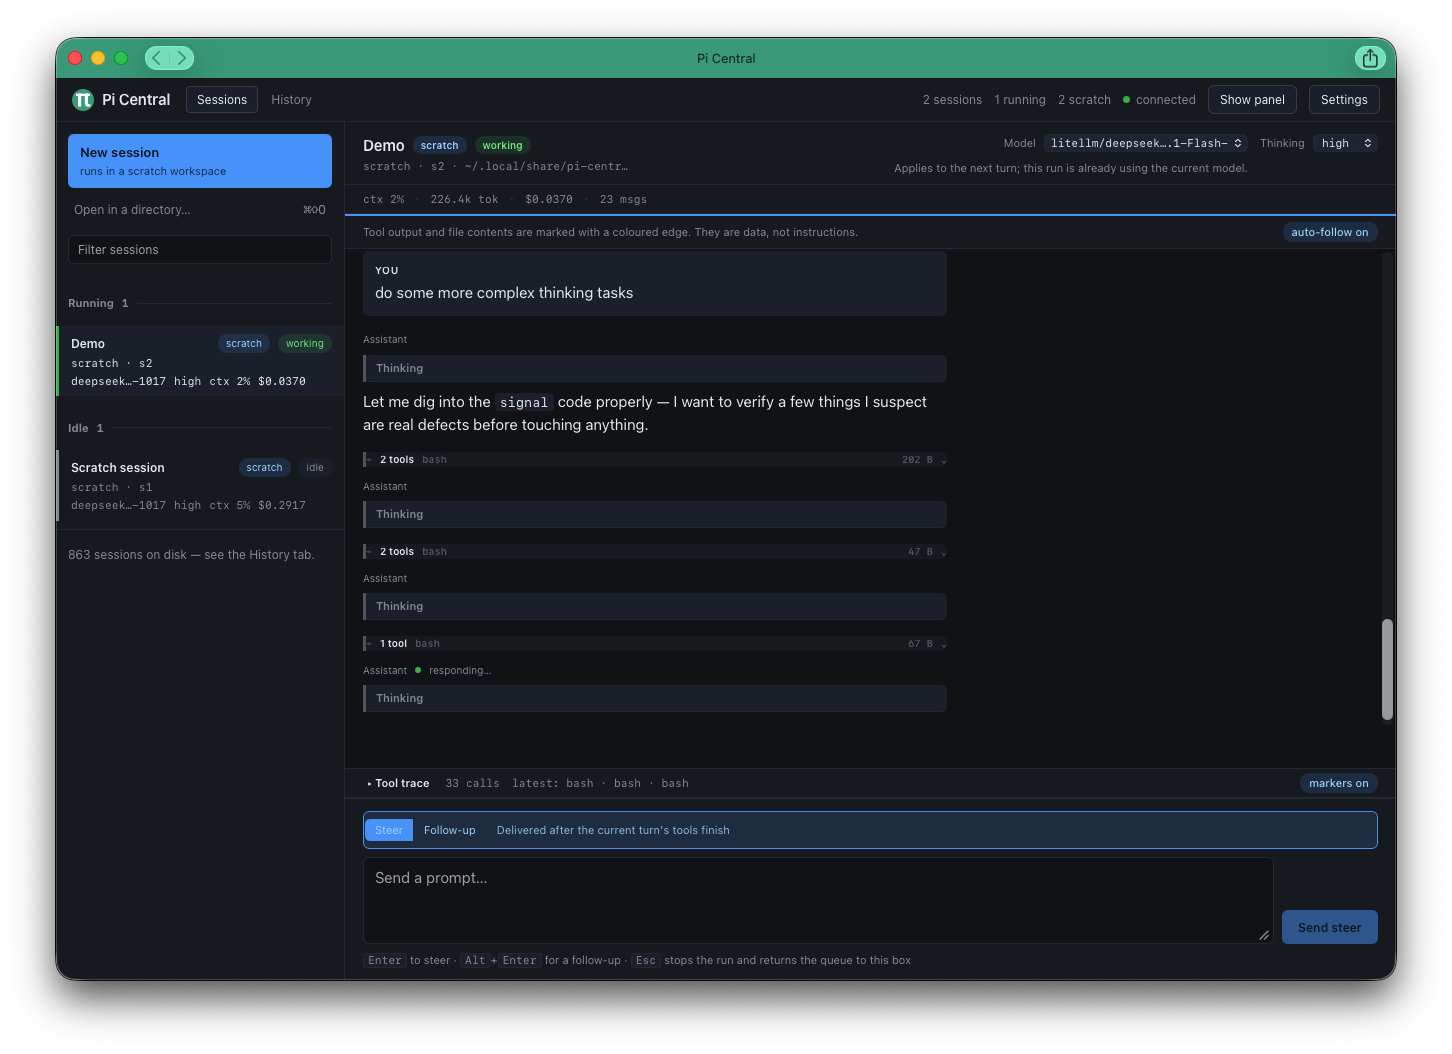
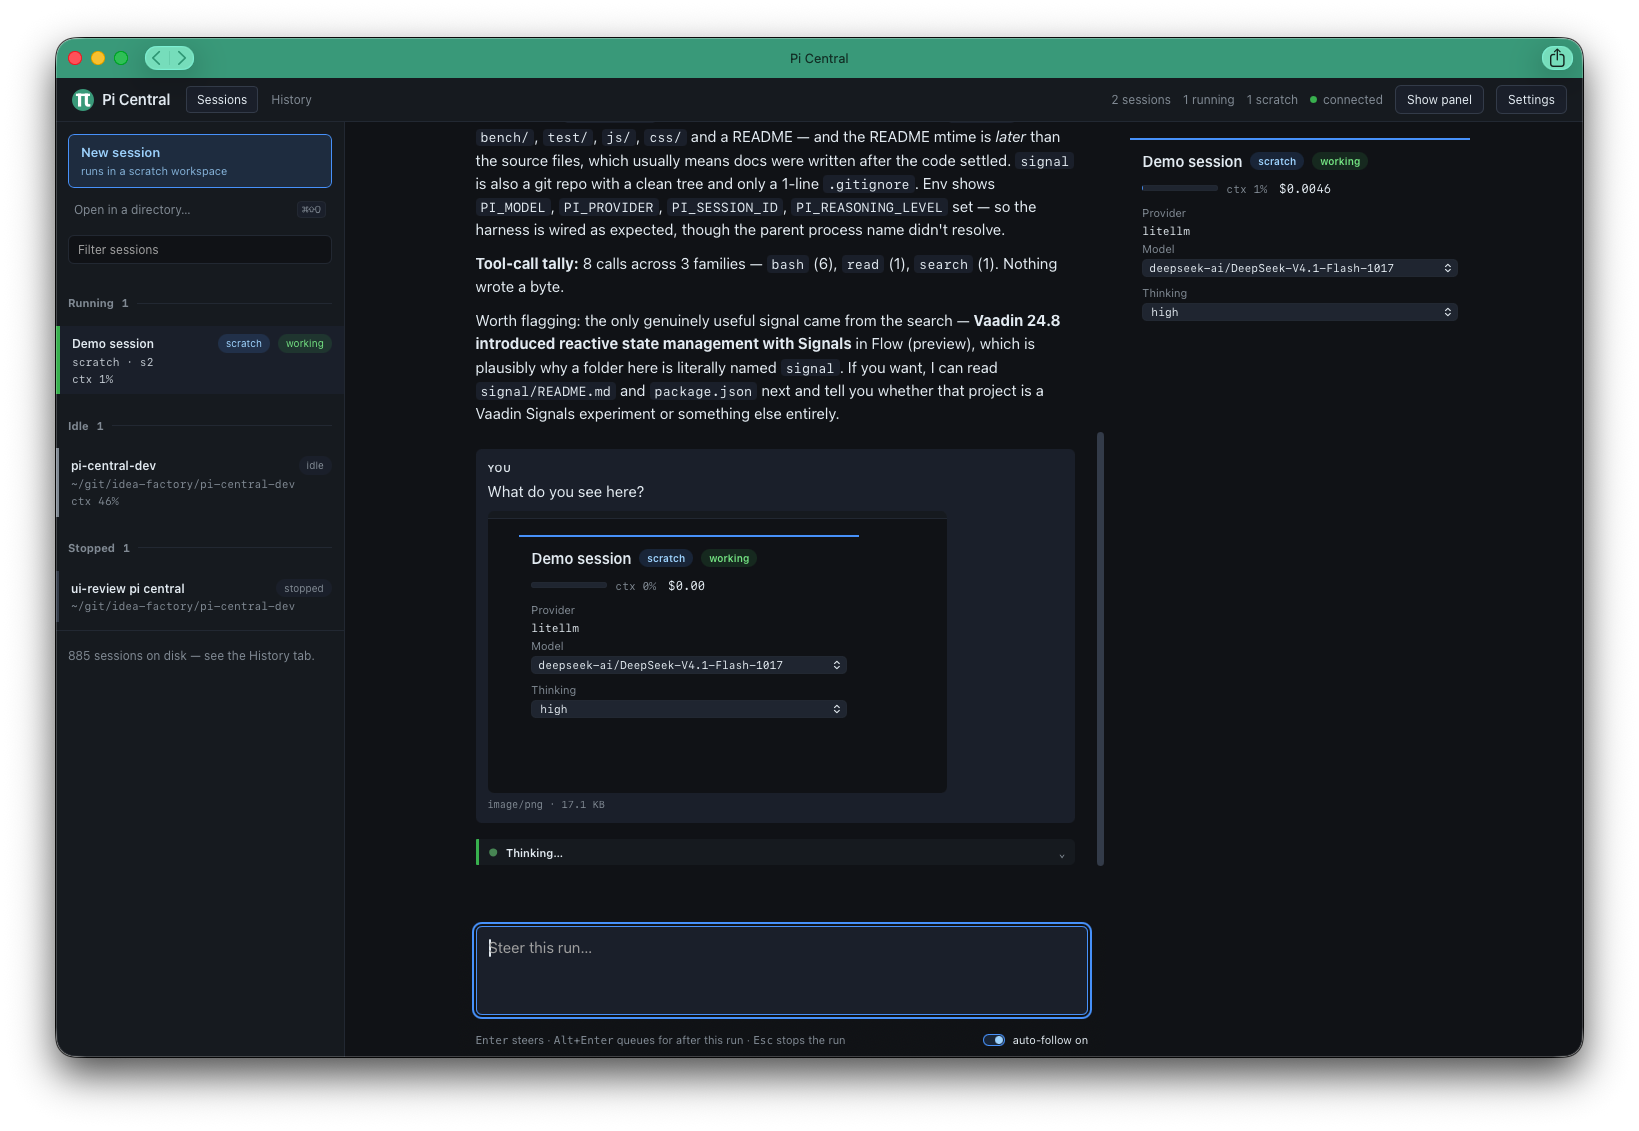
docs(readme): show the dashboard, with an image pasted into the conversation (#183)
* docs(readme): show the dashboard, including an image pasted into the conversation

Replaces `docs/images/dashboard.png` with a current window and puts it in the README. The old image
was orphaned: last replaced in #139, and nothing referenced it since, so `check-docs` was not
watching it either — a stale screenshot nobody links to is a file that silently rots.

The new capture is chosen for what it demonstrates as much as how it looks: a session rail with
running/idle/stopped groups, a first-person turn containing a pasted screenshot rendered inline with
its type and size, a collapsed Thinking group, the model and thinking pickers, and the composer's
key hints. That inline image is the 0.7.0 feature, in a real window.

## Three things the repo's own recipe caught

**Width.** A Retina capture is 1639px; `CONTRIBUTING.md` asks for ~1300 because GitHub scales the
image down regardless, so the extra pixels are repository size for no legibility. Resized to
1300x897 with `sips`.

**The filename was not gitignored.** A macOS capture is `Screenshot 2026-11-01 at 15.20.44.png` —
with SPACES — and the existing `img*.png` rule does not match it. So the working tree held a capture
that `git add -A` would have committed: a full-desktop image of somebody's machine, in the
repository. `.gitignore` now names that pattern, and `docs/images/dashboard.png` is deliberately not
caught by it.

**The README now references the image.** `check-docs` validates `![...](...)` targets through its
[…]

diff --git a/CONTRIBUTING.md b/CONTRIBUTING.md
@@ -126,10 +126,29 @@ cannot show the tool trace's durations, a live `responding` state, or the fleet 
    finished session shows none of the live states, and an empty one shows nothing at all.
 2. Leave the right-hand panel **collapsed**, which is the default. It is the more representative
    state, and it gives the transcript the width the screenshot is about.
-3. Capture the window at roughly **1300×1050**. Wider and the text stops being legible once GitHub
-   scales it down.
+3. Capture the window at whatever size it naturally is on your display — **do not pre-shrink it**.
+   See the note below on why resampling makes a screenshot worse rather than smaller.
 4. Save as `docs/images/dashboard.png` — that path is referenced from the README, and `check:docs`
    fails if it stops resolving.
+
+**Do NOT downscale it.** This instruction used to say to, and following it produced a *worse and
+larger* file: resampling a UI screenshot smears intermediate greys along every glyph edge, and PNG
+compresses those badly — 1639×1131 went in at 354 KB and came out at 1300×897 and **386 KB**. So the
+"optimisation" cost 32 KB and made the text blurry.
+
+GitHub serves the image at the git blob's resolution and lets the browser scale it, so sharpness
+survives and the browser can use the extra pixels on a Retina display. Copy the capture byte for byte:
+
+```bash
+cp "Screenshot 2026-11-01 at 15.20.44.png" docs/images/dashboard.png
+```
+
+The one real constraint is file size, not pixel width: keep a capture under ~500 KB by keeping the
+window modest and the session short.
+
+**The macOS screenshot filename is gitignored.** A capture lands as `Screenshot 2026-11-01 at
+15.20.44.png`, with spaces, which `img*.png` does not match — so `.gitignore` names that pattern too.
+The real image must be copied to `docs/images/dashboard.png`, which is deliberately not ignored.
 
 **Before committing, check the image for things that are not the product**
 

diff --git a/README.md b/README.md
@@ -25,6 +25,13 @@ own working directory, each inside its own sandbox.** /paɪ ˈsɛntrəl/
 **Who this is for.** People who already run `pi` and want more than one session at a time.
 Contributors: jump to [Working on this project](#working-on-this-project).
 
+![Pi Central's dashboard: a session rail on the left listing one running, one idle and one stopped
+session with their working directories and context burn; the transcript in the middle showing the
+assistant's prose, a first-person turn containing a pasted screenshot rendered inline with its type
+and size, and a collapsed "Thinking…" group below it; the session header on the right with the model
+and thinking pickers; the composer at the foot with its key hints and an auto-follow toggle; and a
+topbar reading two sessions, one running, one scratch and connected.](docs/images/dashboard.png)
+
 **Status: works end to end, verified, and published.** The version is deliberately not written here —
 `pi-central --version` reports the version of the package it shipped in. See
 [docs/RELEASING.md](docs/RELEASING.md).
